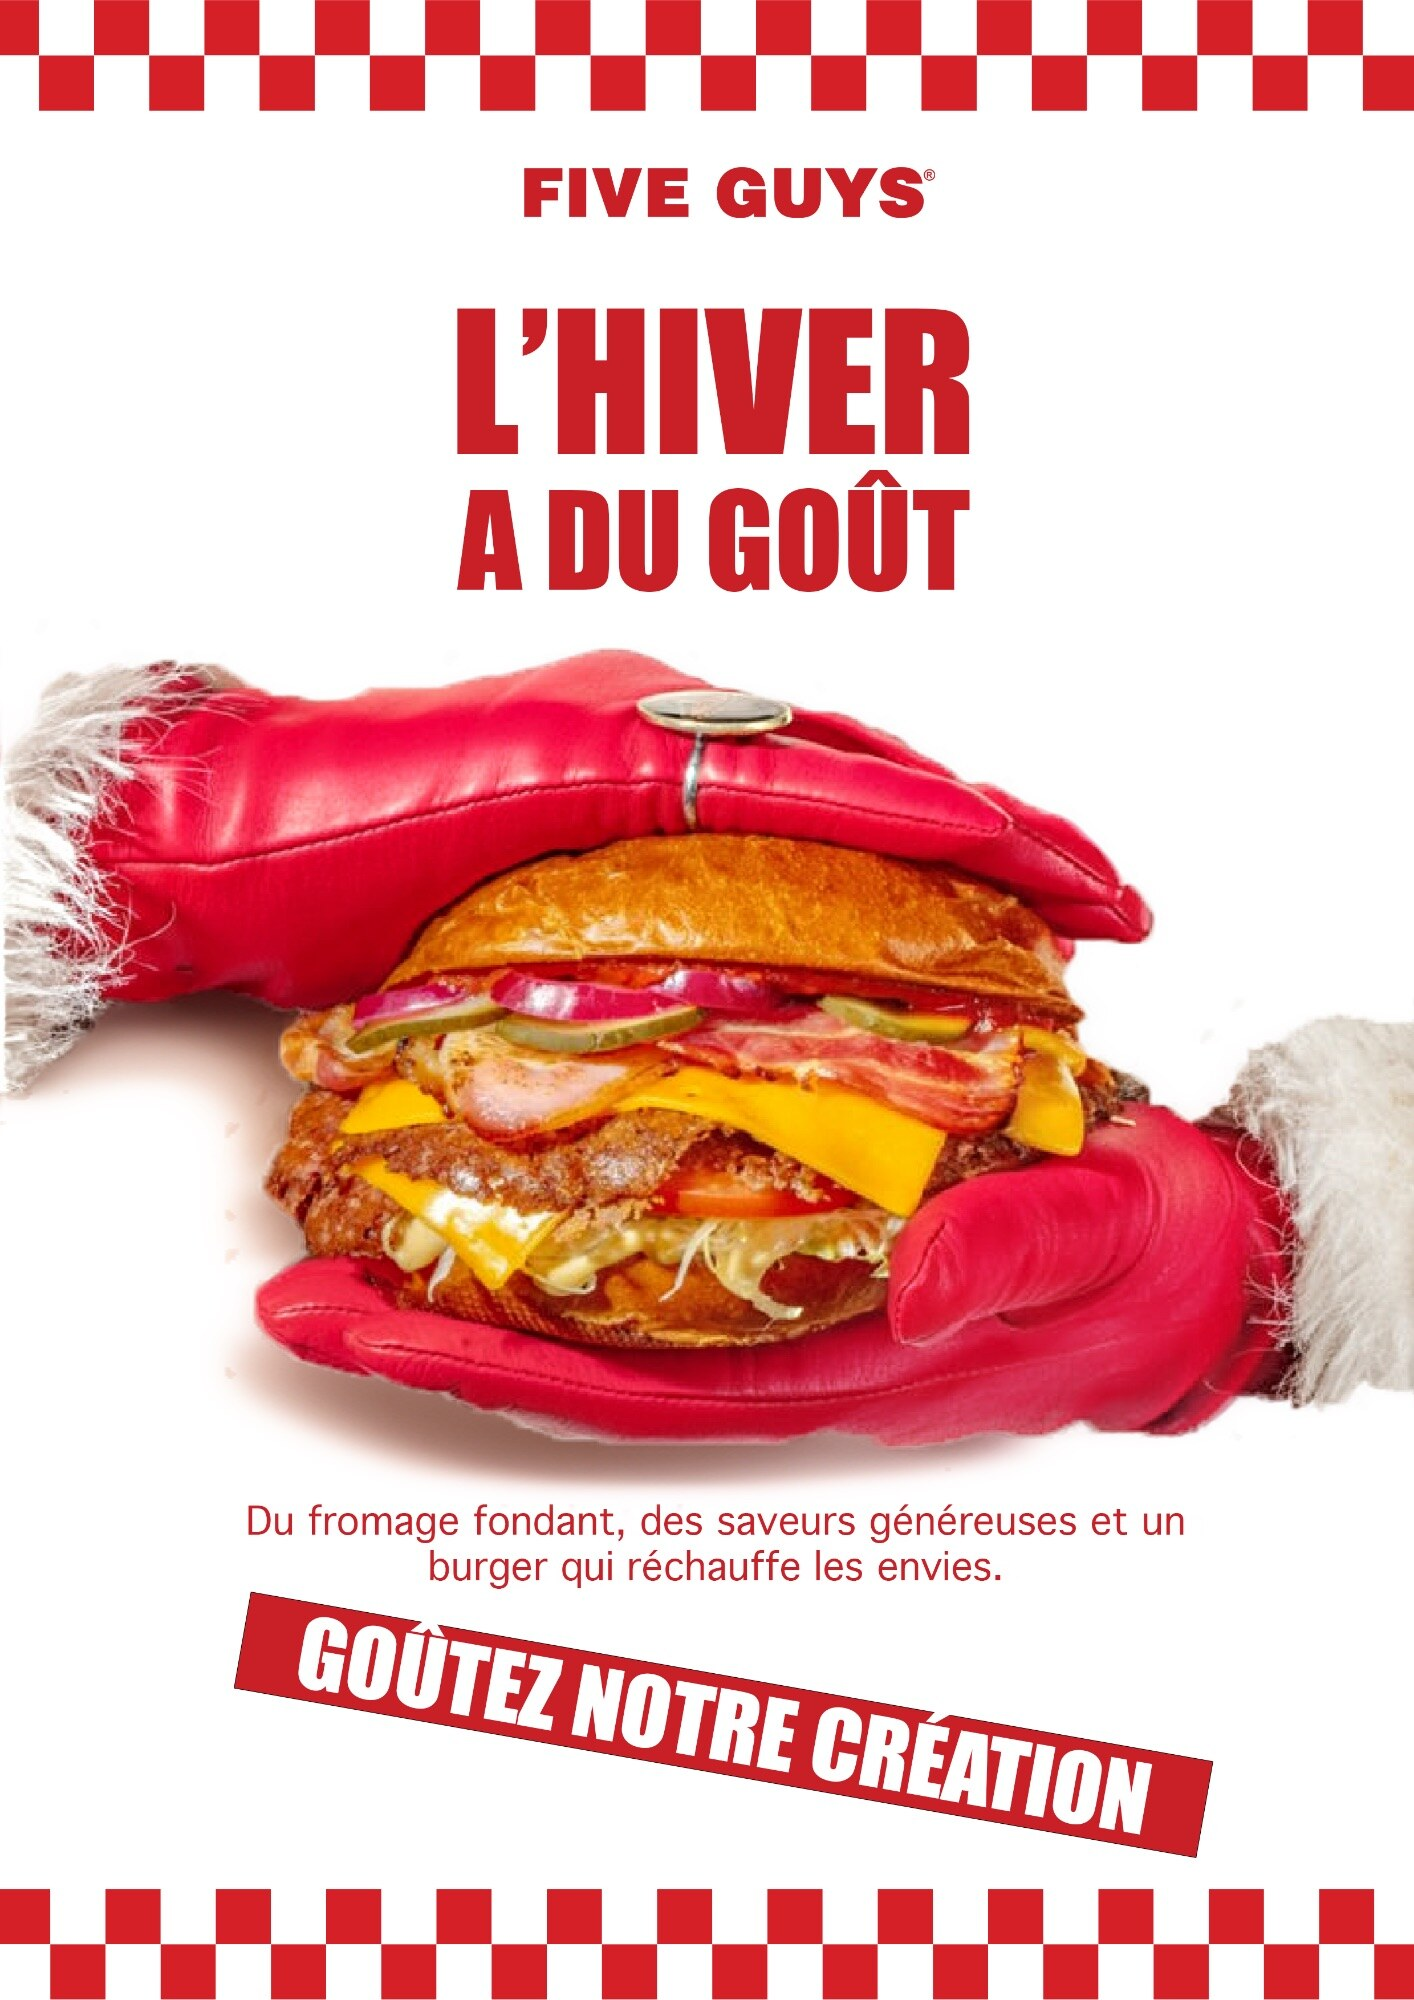
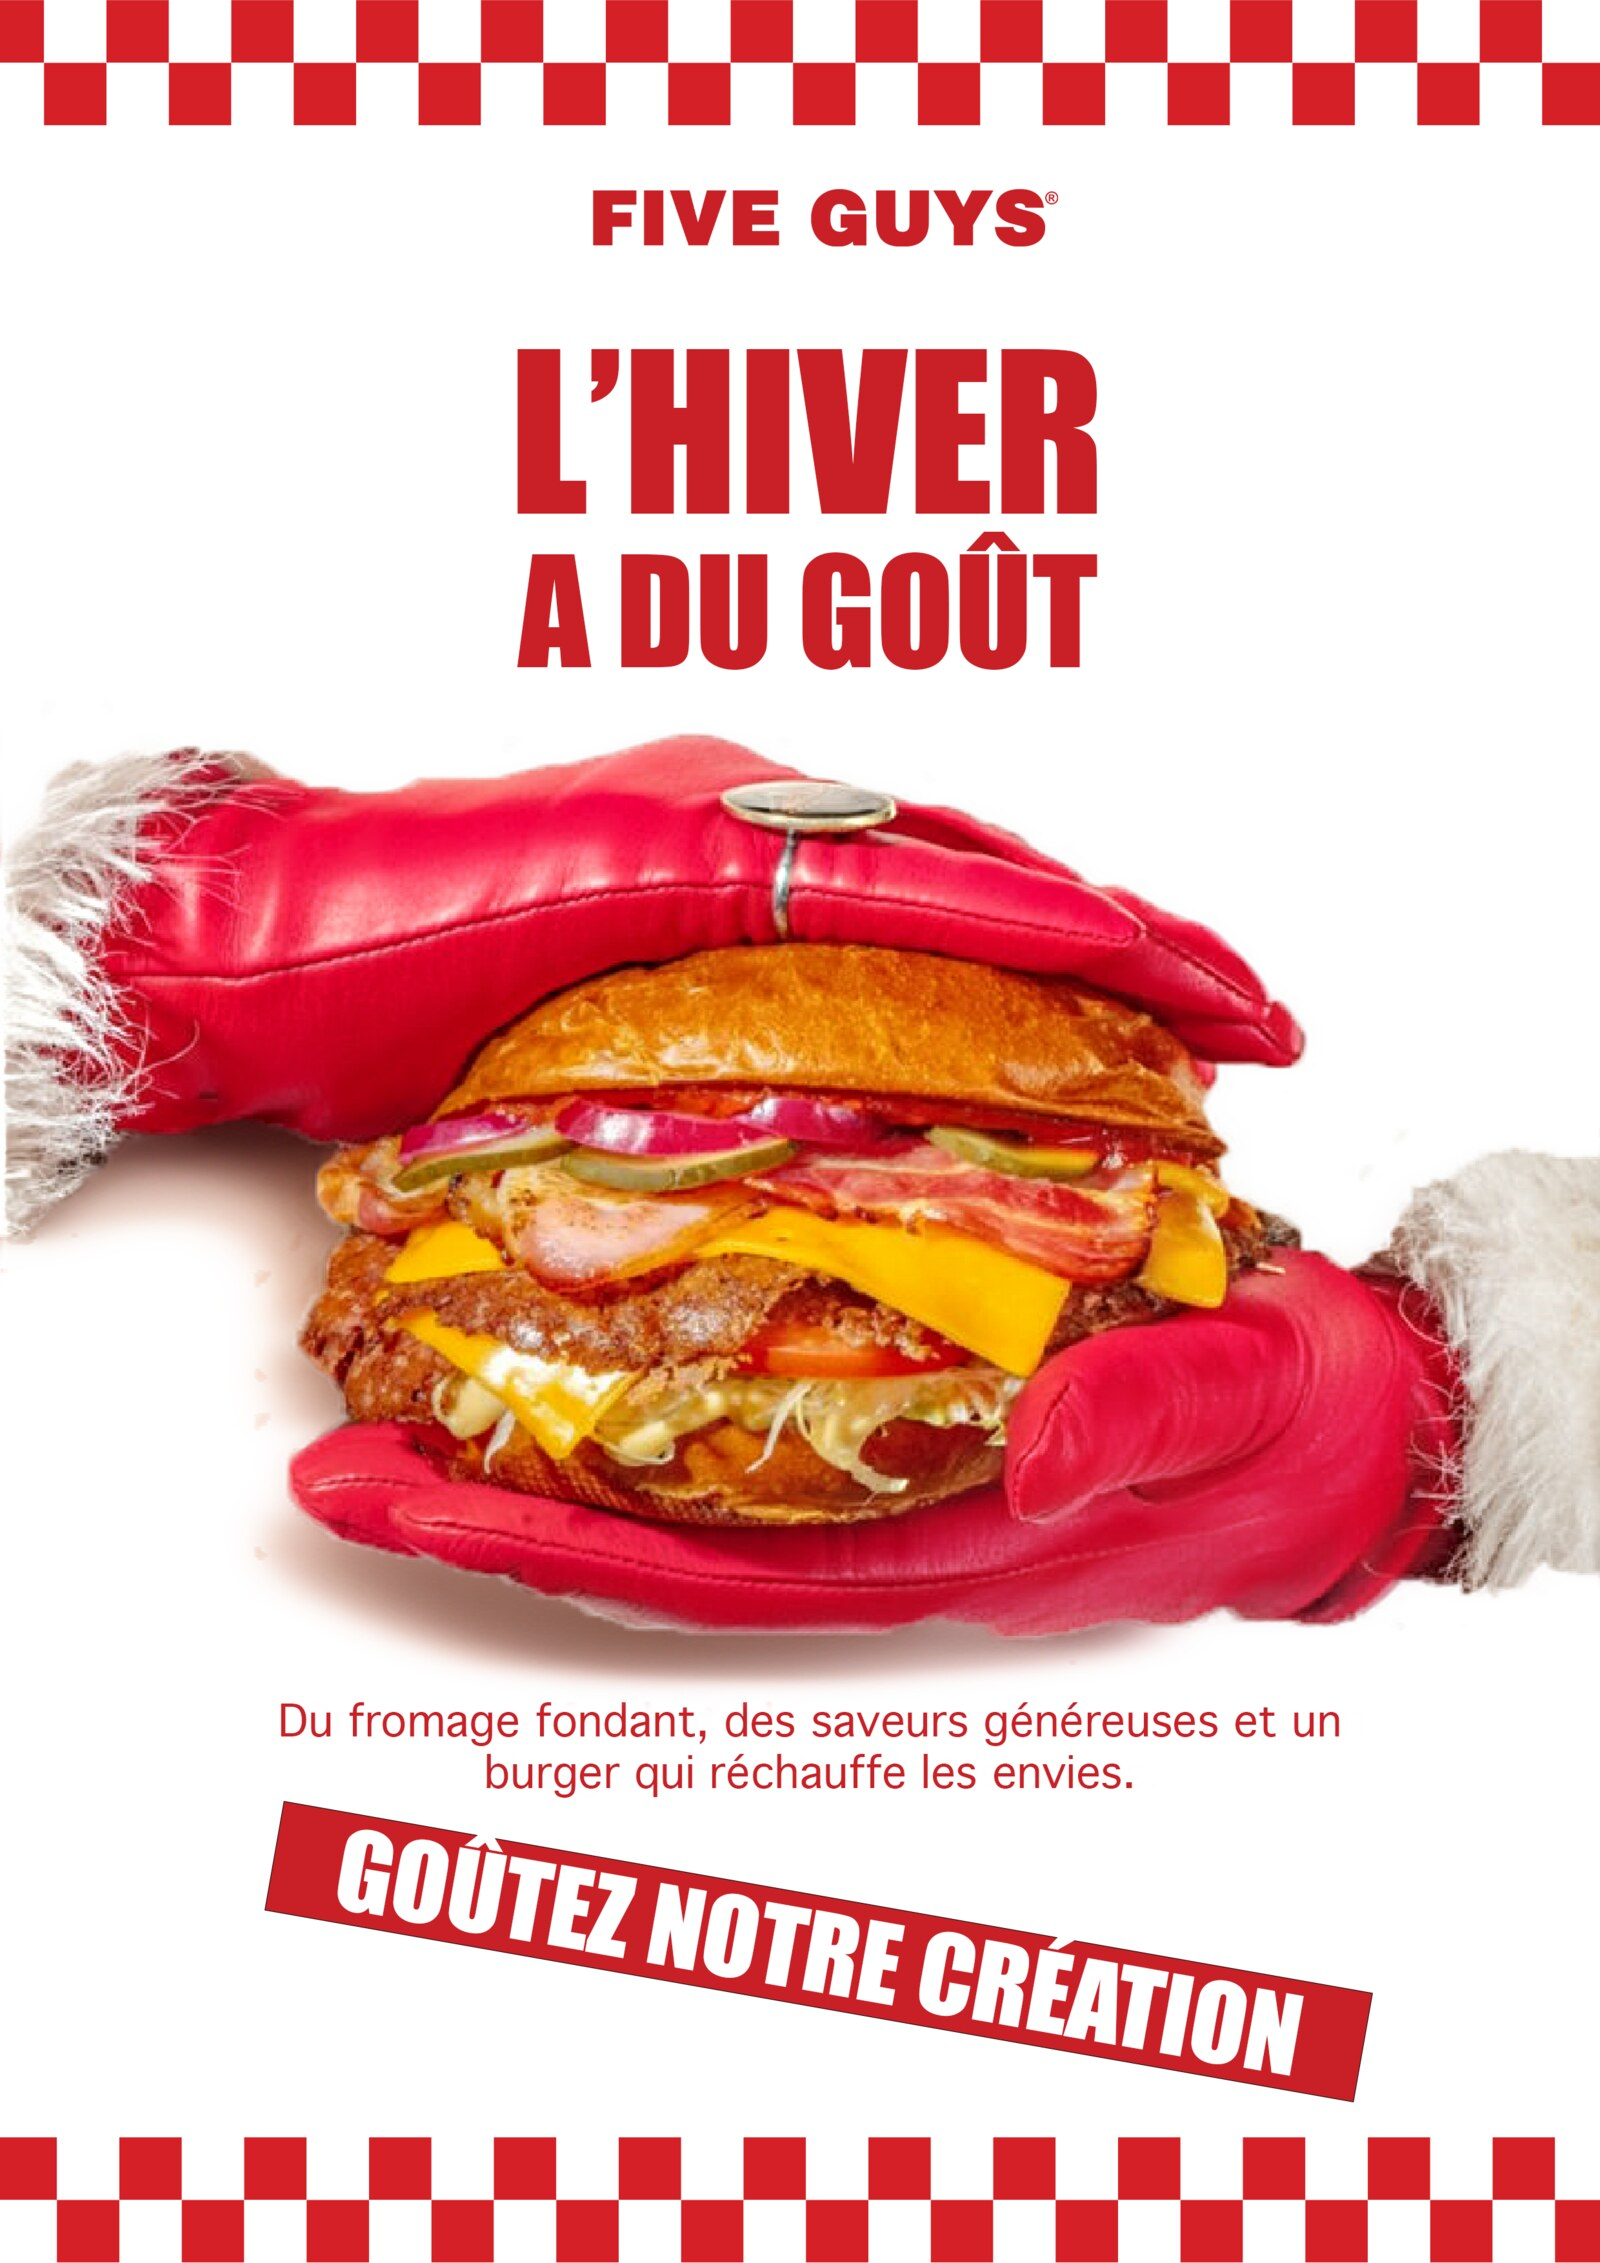
Five Guys : affiches remplacées par les originaux HD
Claude-Session: https://claude.ai/code/session_01KKW7oQ1d9YbxsbSsY2X9vJ

diff --git a/index.html b/index.html
@@ -2704,9 +2704,9 @@ h2.c-big{margin:0 0 1.5rem;font-weight:400}
   <div class="gal-grille">
[3 lines of base64/hex data omitted]
-<div class="gal-item brand-secondary" data-c="affiche" data-group="fiveguys" data-brand="Five Guys" data-title="Five Guys, L'hiver a du go&ucirc;t" data-cat="Campagne d'affichage &middot; Burger" data-desc="D&eacute;clinaison promotionnelle : l'offre saisonni&egrave;re, tenue par des gants d'hiver."><img src="images/five-guys-hiver.jpg" alt="Five Guys, affiche « L'hiver a du goût »" width="1414" height="2000" loading="lazy" decoding="async"></div>
-<div class="gal-item brand-secondary" data-c="affiche" data-group="fiveguys" data-brand="Five Guys" data-title="Five Guys, &Agrave; deux, c'est meilleur" data-cat="Campagne d'affichage &middot; Burger" data-desc="D&eacute;clinaison ambiance : deux mains qui trinquent, pour partager le moment."><img src="images/five-guys-partage.jpg" alt="Five Guys, affiche « À deux, c'est meilleur »" width="1414" height="2000" loading="lazy" decoding="async"></div>
[1 lines of base64/hex data omitted]
+<div class="gal-item brand-secondary" data-c="affiche" data-group="fiveguys" data-brand="Five Guys" data-title="Five Guys, L'hiver a du go&ucirc;t" data-cat="Campagne d'affichage &middot; Burger" data-desc="D&eacute;clinaison promotionnelle : l'offre saisonni&egrave;re, tenue par des gants d'hiver."><img src="images/five-guys-hiver.jpg" alt="Five Guys, affiche « L'hiver a du goût »" width="1600" height="2263" loading="lazy" decoding="async"></div>
+<div class="gal-item brand-secondary" data-c="affiche" data-group="fiveguys" data-brand="Five Guys" data-title="Five Guys, &Agrave; deux, c'est meilleur" data-cat="Campagne d'affichage &middot; Burger" data-desc="D&eacute;clinaison ambiance : deux mains qui trinquent, pour partager le moment."><img src="images/five-guys-partage.jpg" alt="Five Guys, affiche « À deux, c'est meilleur »" width="1600" height="2263" loading="lazy" decoding="async"></div>
 <div class="gal-item brand-thumb has-card" data-c="affiche" data-group="halloween" data-brand="Talon Pointe" data-title="Halloween chez Talon Pointe" data-cat="Shooting · Halloween">
       <img src="images/halloween-talon-pointe.jpg" alt="Halloween" width="675" height="1200" loading="lazy" decoding="async">
       <div class="brand-card" style="background:#0d0d0b"><img src="images/logo-talon-pointe.svg" alt="Talon Pointe logo" class="brand-card-logo" loading="lazy" decoding="async"></div>
